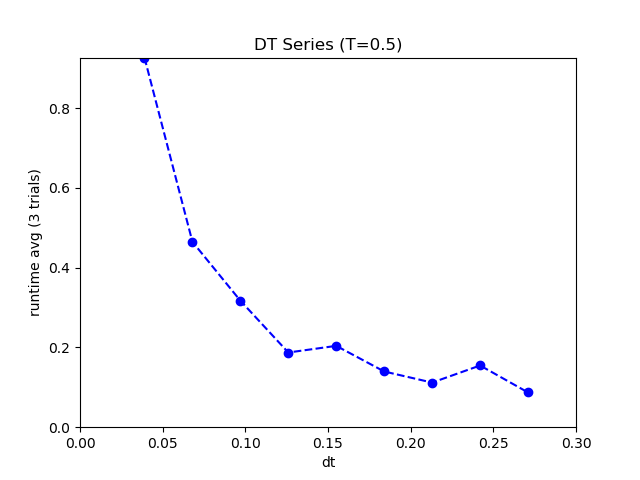
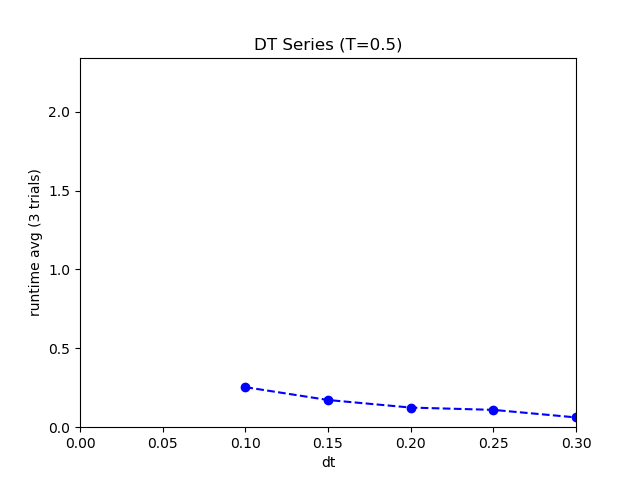
updated profiling script with better combined graphs

diff --git a/reachability/scripts/profiler.py b/reachability/scripts/profiler.py
@@ -7,20 +7,20 @@ linear = lambda mini, maxi, frac : mini + (maxi - mini) * frac
 numDataTrials = 3
 
 #dt config
-dt_Min = .01
+dt_Min = .1
 dt_Max = .3
-dt_numSteps = 10
+dt_numSteps = 5
 dt_StepFunc = linear
-dt_Steps = [dt_StepFunc(dt_Min, dt_Max, step/dt_numSteps) for step in range(dt_numSteps)]
+dt_Steps = [dt_StepFunc(dt_Min, dt_Max, step/(dt_numSteps-1)) for step in range(dt_numSteps)]
 print("DT steps are:")
 print(dt_Steps)
 
 #total time config
 ttime_Min = .5
-ttime_Max = 4
-ttime_numSteps = 10
+ttime_Max = 2
+ttime_numSteps = 5
 ttime_StepFunc = linear
-ttime_Steps = [ttime_StepFunc(ttime_Min, ttime_Max, step/ttime_numSteps) for step in range(ttime_numSteps)]
+ttime_Steps = [ttime_StepFunc(ttime_Min, ttime_Max, step/(ttime_numSteps-1)) for step in range(ttime_numSteps)]
 print("Total Time Steps are")
 print(ttime_Steps)
 
@@ -33,13 +33,18 @@ results = []
 maxSimSteps = 30
 #testing on dt and total
 for totalTime in ttime_Steps:
+    print("-----------------------------------")
+    print("\033[0;32;40m Running time series with: ttime={}\033[0;37;40m".format(totalTime))
+    print("-----------------------------------")
     step_results = []
     for dt in dt_Steps:
         if totalTime / dt < maxSimSteps:
             print("\033[0;32;40m Running model with : ttime={}, dt={}\033[0;37;40m".format(totalTime, dt))
             stamp = "{}{}".format(totalTime, dt).replace('.','d')
             runTimeTrials = []
+            print("Trials completed... \n", end='')
             for t in range(numDataTrials):
+                print("{}".format(t+1), end=' ')
                 runTimeTrials.append(run_hylaa(totalTime, dt, True, stamp))
             runTime = np.mean(runTimeTrials)
             result = (totalTime, dt, runTime)
@@ -48,7 +53,16 @@ for totalTime in ttime_Steps:
         else:
             print("\033[2;33;40m SKIPPING model with : ttime={}, dt={}\n".format(totalTime, dt))
     results.append(step_results)
-        
+
+maxRuntime = 0
+maxRuntimeRatio = 0
+xAxis_padding = .01
+yAxis_padding = .1
+for ttime_set in results:
+    ttime, dt, runtime = zip(*ttime_set)
+    maxRuntime = max(max(runtime), maxRuntime)
+    maxRuntimeRatio = max(max([r/ttime[0] for r in runtime]), maxRuntimeRatio)
+
 for ttime_set in results:
     ttime, dt, runtime = zip(*ttime_set)
     print("\033[0;37;40m Plotting with ttime={}".format(ttime))
@@ -56,8 +70,48 @@ for ttime_set in results:
     plt.ylabel("runtime avg ({} trials)".format(numDataTrials))
     plt.xlabel("dt")
     plt.plot(dt, runtime, '--bo')
-    plt.axis([0, dt_Max, 0, max(runtime)])
+    plt.axis([0, dt_Max, 0, maxRuntime])
     plt.savefig("profiler/{}-g.png".format(ttime[0]))
     plt.clf()
+
+#combined dt series vs time
+print("\033[0;37;40m Plotting combined".format(ttime))
+plt.title("Combined dt series by horizon time")
+plt.ylabel("runtime avg ({} trials)".format(numDataTrials))
+plt.xlabel("dt")
+for ttime_set in results:
+    ttime, dt, runtime = zip(*ttime_set)
+    plt.plot(dt, runtime, marker='o', linestyle='dashed', label="T={}".format(ttime[0]))
+
+plt.axis([
+    dt_Min - xAxis_padding,
+    dt_Max + xAxis_padding, 
+    0, 
+    maxRuntime + yAxis_padding
+])
+
+plt.legend(loc='best')
+plt.savefig("profiler/combined-g.png")
+plt.clf()
+
+#combined dt series vs runtime/ttime
+print("\033[0;37;40m Plotting combined runtime/ttime".format(ttime))
+plt.title("Combined dt series by runtime/horizon time")
+plt.ylabel("runtime avg / ttime")
+plt.xlabel("dt")
+for ttime_set in results:
+    ttime, dt, runtime = zip(*ttime_set)
+    plt.plot(dt, [r/ttime[0] for r in runtime], marker='o', markersize='5', linestyle='dashed', label="T={}".format(ttime[0]))
+
+plt.axis([
+    dt_Min - xAxis_padding,
+    dt_Max + xAxis_padding, 
+    0, 
+    maxRuntimeRatio + yAxis_padding
+])
+
+plt.legend(loc='best')
+plt.savefig("profiler/ratio-g.png")
+plt.clf()
 
 print(results)

diff --git a/reachability/scripts/hylaa_model_OLD.py b/reachability/scripts/hylaa_model_OLD.py
@@ -46,9 +46,6 @@ def make_automaton(dt, total, initialState, inputFunc, headless):
     prevState = initialState
     prevInputs = inputFunc(0)
     for state, inputs in predictions:
-        #print(state)
-        print(state)
-        print(inputs)
         e0d0 = [prevState[2], prevInputs[1]]
         dynamics = model.getTimeAugmentMatrices(state, inputs + e0d0)
         prevState = state

diff --git a/reachability/scripts/model_OLD.py b/reachability/scripts/model_OLD.py
@@ -109,7 +109,6 @@ C = [
 ]
 def getMatrices(state, inputs):
     current = list(zip(stateVars + inputVars + constantSym, state + inputs + constants))
-    print(current)
     return {
         "A" : usingDynamics[0].subs(current).evalf(),
         "B" : usingDynamics[1].subs(current).evalf(),
